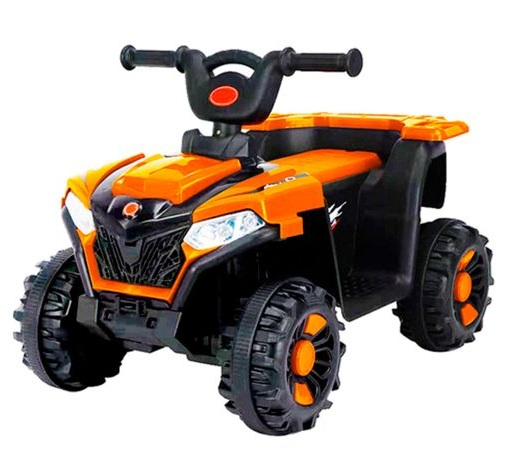
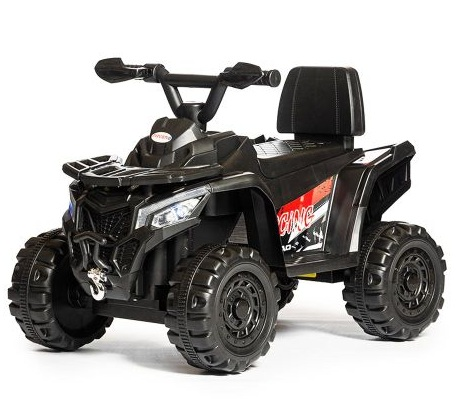
precio

diff --git a/pages/index.js b/pages/index.js
@@ -40,28 +40,28 @@ const productos = [
   { id: 8, title: "Desmalezadora Motoguadaña Naftera 52cc", description: "Motor: 52 cc y 1650 W (6500 rpm) para cortes exigentes. Uso: Ideal para cortar malezas a ras del suelo.", price: 150000, image: "/images/desmalezadora.jpg", category: "Herramientas" },
   { id: 9, title: "Aire Acondicionado Sansei Split", description: "Climatización Total: Frío/Calor con 2365 frigorías. Eficiencia: Tecnología On-Off y Clase A.", price: 700000, image: "/images/airesensei.jpg", category: "Climatización" },
   { id: 10, title: "Celular Tecno Spark 30C 128GB Orbit Black", description: "Desempeño: Procesador MediaTek Helio G81 con 4 GB de RAM. Almacenamiento: 256 GB internos.", price: 220000, image: "/images/celutekno.jpg", category: "Celulares" },
-  { id: 11, title: "Playstation 5 PS5 Digital Bundle", description: "Modelo: Diseño Slim, Edición Digital (sin discos). Rendimiento: SSD de 1 TB ultrarrápido.", price: 1550000, image: "/images/play5.jpg", category: "Consolas" },
+  //{ id: 11, title: "Playstation 5 PS5 Digital Bundle", description: "Modelo: Diseño Slim, Edición Digital (sin discos). Rendimiento: SSD de 1 TB ultrarrápido.", price: 1550000, image: "/images/play5.jpg", category: "Consolas" },//
   { id: 12, title: "Lavarropas Semiautomático 6 kg Wanke", description: "Capacidad y Carga: 6 kg, Carga Superior. Sistema de Lavado: Turbina potente y eficiente.", price: 195000, image: "/images/lavafranke.jpg", category: "Lavarropas" },
   { id: 13, title: "Secadora Por Calor Kanjihome 4kg", description: "Capacidad: 4 kg. Rendimiento: Secado por calor con 1250 W de potencia. Programas: 3 ciclos.", price: 420000, image: "/images/secakanji.jpg", category: "Secarropas" },
-  { id: 14, title: "Lavarropas Philco 5.5 Kg", description: "Capacidad: 5.5 kg. Programas: 10 ciclos de lavado. Eficiencia: Clase A de eficiencia energética.", price: 345000, image: "/images/lavaphilco.jpg", category: "Lavarropas" },
+  { id: 14, title: "Lavarropas Philco 6 Kg", description: "Capacidad: 6 kg. Programas: 10 ciclos de lavado. Eficiencia: Clase A de eficiencia energética.", price: 500000, image: "/images/lavaphilco.jpg", category: "Lavarropas" },
   { id: 15, title: "Heladera Bajo Mesada Hisense 126L", description: "Capacidad: 126 litros, ideal como auxiliar o para cocinas pequeñas. Diseño: Negro, compacto.", price: 420000, image: "/images/helahisense.jpg", category: "Heladeras" },
   { id: 16, title: "Heladera Cíclica Admiral 208 Lts", description: "Capacidad: 207 litros netos. Enfriamiento: Sistema cíclico que garantiza frescura constante.", price: 450000, image: "/images/helaadmiral.jpg", category: "Heladeras" },
-  { id: 17, title: "Celular Samsung Galaxy A06 128GB", description: "Rendimiento: Procesador MediaTek G85 y 4 GB de RAM. Almacenamiento: 128 GB internos.", price: 265000, image: "/images/samsunga06.jpg", category: "Celulares" },
+  { id: 17, title: "Celular Samsung Galaxy A06 128GB", description: "Rendimiento: Procesador MediaTek G85 y 4 GB de RAM. Almacenamiento: 128 GB internos.", price: 270000, image: "/images/samsunga06.jpg", category: "Celulares" },
   { id: 18, title: "iPhone 12 Mini 64GB reacondicionado", description: "Estado: Renovado Grado A. Compatibilidad: Totalmente desbloqueado. Almacenamiento: 64 GB.", price: 470000, image: "/images/iphone12.jpg", category: "Celulares" },
-  { id: 19, title: "Cafetera de Filtro Peabody", description: "Capacidad: 1.5 Litros. Función: Mantener Caliente. Comodidad: Filtro permanente.", price: 60000, image: "/images/cafepea.jpg", category: "Cocina" },
-  { id: 20, title: "Ventilador de Techo Telefunken", description: "Aspas Retráctiles. Control Total: Incluye Control Remoto. Modo Invierno: Función de recirculación.", price: 150000, image: "/images/ventitecho.jpg", category: "Climatización" },
+  { id: 19, title: "Cafetera de Filtro Peabody", description: "Capacidad: 1.5 Litros. Función: Mantener Caliente. Comodidad: Filtro permanente.", price: 65000, image: "/images/cafepea.jpg", category: "Cocina" },
+  { id: 20, title: "Ventilador de Techo Telefunken", description: "Aspas Retráctiles. Control Total: Incluye Control Remoto. Modo Invierno: Función de recirculación.", price: 190000, image: "/images/ventitecho.jpg", category: "Climatización" },
   { id: 21, title: "Celular Samsung Galaxy A16 4G", description: "Pantalla Superior: Impresionante Super AMOLED de 6.7 pulgadas con resolución FHD+.", price: 450000, image: "/images/samsunga16.jpg", category: "Celulares" },
   { id: 22, title: "Celular Motorola G15 4GB 128GB", description: "Rendimiento y Almacenamiento: 4 GB de RAM y 128 GB internos. Pantalla: 6.72 FHD+.", price: 340000, image: "/images/motorolag15.jpg", category: "Celulares" },
-  { id: 23, title: "Celular ZTE Blade A35 64GB", description: "Almacenamiento: 64 GB internos. Pantalla: IPS de 6.75 pulgadas. Batería: 5000 mAh.", price: 130000, image: "/images/ztea35.jpg", category: "Celulares" },
+  { id: 23, title: "Celular ZTE Blade A35 64GB", description: "Almacenamiento: 64 GB internos. Pantalla: IPS de 6.75 pulgadas. Batería: 5000 mAh.", price: 230000, image: "/images/ztea35.jpg", category: "Celulares" },
   { id: 24, title: "Smart TV Samsung 50” UHD 4K", description: "Imagen Superior: Pantalla 50 pulgadas con resolución UHD 4K. Tecnología de Color: PurColor.", price: 695000, image: "/images/samsungDU7000.jpg", category: "TV" },
-  { id: 25, title: "Bicicleta MTB Rydetech 300 R29", description: "Cuadro: Acero hidroformado robusto. Suspensión: Horquilla de 80 mm. Ruedas: 29x2.10.", price: 290000, image: "/images/bici.jpg", category: "Bicicletas" },
+  { id: 25, title: "Bicicleta MTB Rydetech 300 R29", description: "Cuadro: Acero hidroformado robusto. Suspensión: Horquilla de 80 mm. Ruedas: 29x2.10.", price: 300000, image: "/images/bici.jpg", category: "Bicicletas" },
   { id: 26, title: "Bicicleta Infantil Nathor R16", description: "Edad y Altura: Recomendada para niños de 5 años o más. Seguridad: Limitador de giro.", price: 200000, image: "/images/bici1.jpg", category: "Bicicletas" },
-  { id: 27, title: "Auriculares Admiral AD-F9 Negro", description: "Conexión: Bluetooth V5.3. Autonomía: Hasta 6 horas de uso continuo.", price: 15000, image: "/images/auriadm.jpg", category: "Audio" },
+  { id: 27, title: "Auriculares Admiral AD-F9 Negro", description: "Conexión: Bluetooth V5.3. Autonomía: Hasta 6 horas de uso continuo.", price: 18000, image: "/images/auriadm.jpg", category: "Audio" },
   { id: 28, title: "Auricular Aiwa TWA-80B Blanco", description: "Conectividad: Bluetooth. Control: Micrófono y Touch multifunción. Diseño In-Ear.", price: 20000, image: "/images/auriaiwa.jpg", category: "Audio" },
   { id: 29, title: "Aspiradora Robot Sansei", description: "Doble Función: Aspira (1400 Pa) y trapea. Filtro: HEPA. Autonomía: 120 min.", price: 240000, image: "/images/aspisansei.jpg", category: "Hogar" },
   { id: 30, title: "Pizarra Mágica 12", description: "Pantalla: LCD de 12.5 pulgadas multicolor. Fácil de Usar: Escribe y borra con un toque.", price: 9500, image: "/images/pizzarra.jpg", category: "Juguetes" },
-  { id: 31, title: "Cuatriciclo Stark Naranja 6V", description: "Edad Recomendada: Niños de 2 a 4 años. Rendimiento: Batería de 6 V. Marcha adelante y atrás.", price: 110000, image: "/images/cuatri.jpg", category: "Juguetes" },
-  { id: 32, title: "Cuatriciclo Stark Blanco 6V", description: "Edad Recomendada: 2 a 4 años. Rendimiento: Batería de 6 V. Diseño realista.", price: 110000, image: "/images/cuatrib.jpg", category: "Juguetes" },
+  { id: 31, title: "Cuatriciclo a Batería Negro Love 3015", description: "Seguridad Clave: Incluye Control Remoto Parental.Velocidad/Carga: Máximo 6km/h. Soporta hasta $25kg-30kg.Batería: 6V.Extras: Luces frontales y sonidos de motor.", price: 110000, image: "/images/cuatri.jpg", category: "Juguetes" },
+  //{ id: 32, title: "Cuatriciclo Stark Blanco 6V", description: "Edad Recomendada: 2 a 4 años. Rendimiento: Batería de 6 V. Diseño realista.", price: 110000, image: "/images/cuatrib.jpg", category: "Juguetes" }//,
   { id: 33, title: "Mesa Didáctica Unicornio", description: "Mesa didáctica con proyector temático de Unicornio. Incluye 1 libro, 24 patrones.", price: 30000, image: "/images/mesauni.jpg", category: "Juguetes" },
   { id: 34, title: "Mesa Didáctica Dinosaurio", description: "Mesa didáctica con proyector temático de Dinosaurio. Incluye 1 libro, 24 patrones.", price: 30000, image: "/images/mesadino.jpg", category: "Juguetes" },
   { id: 35, title: "Pestañas Magneticas", description: "El kit incluye 2 pestañas magnéticas con pinza aplicadora y estuche con espejo.", price: 20000, image: "/images/pestañas.jpg", category: "Belleza" },
@@ -77,10 +77,10 @@ const productos = [
   { id: 45, title: "Aire Acondicionado Inverter Admiral", description: "Tecnología Clave: Inverter. Capacidad: Frío/Calor. Potencia de 2300 frigorías.", price: 700000, image: "/images/aireadmiral.jpg", category: "Climatización" },
   { id: 46, title: "Ventilador Kanjihome 18", description: "Tipo: De Pie, con altura regulable. Rendimiento: 18 pulgadas.", price: 70000, image: "/images/ventitele.jpg", category: "Climatización" },
   { id: 47, title: "Ventilador de Pie Admiral", description: "Tipo: De Pie, con barral telescópico metálico. Diámetro 18 pulgadas.", price: 75000, image: "/images/ventiadmiral.jpg", category: "Climatización" },
-  { id: 48, title: "Ventilador Ken Brown", description: "Funcionalidad: Modelo 3 en 1. Potencia: 100 Watts. 5 aspas metálicas.", price: 105000, image: "/images/ventiken.jpg", category: "Climatización" },
+  { id: 48, title: "Ventilador Ken Brown", description: "Funcionalidad: Modelo 3 en 1. Potencia: 100 Watts. 5 aspas metálicas.", price: 130000, image: "/images/ventiken.jpg", category: "Climatización" },
   { id: 49, title: "Extractor Saca Cera Oreja", description: "Diseño Seguro: Fabricado con silicona suave. Incluye 16 puntas.", price: 12000, image: "/images/removedor.jpg", category: "Salud" },
   { id: 50, title: "Adaptador Hub Usb 3 Puertos", description: "Puertos: Adaptador Hub con 3 puertos USB 2.0. Diseño de cabezal giratorio.", price: 10000, image: "/images/adaptador.jpg", category: "Accesorios" },
-  { id: 51, title: "Hub Usb 3.0 7 Puertos", description: "Puertos: 7 puertos USB para conexión simultánea. Transferencia 5 Gbps.", price: 25000, image: "/images/adaptador1.jpg", category: "Accesorios" },
+  { id: 51, title: "Hub Usb 3.0 7 Puertos", description: "Puertos: 7 puertos USB para conexión simultánea. Transferencia 5 Gbps.", price: 30000, image: "/images/adaptador1.jpg", category: "Accesorios" },
   { id: 52, title: "Lupa Tarjeta De Credito", description: "Aumento: Doble aumento (3x y 6x). Diseño tipo tarjeta con Luz LED.", price: 20000, image: "/images/leetarjeta.jpg", category: "Accesorios" },
 ];
 
